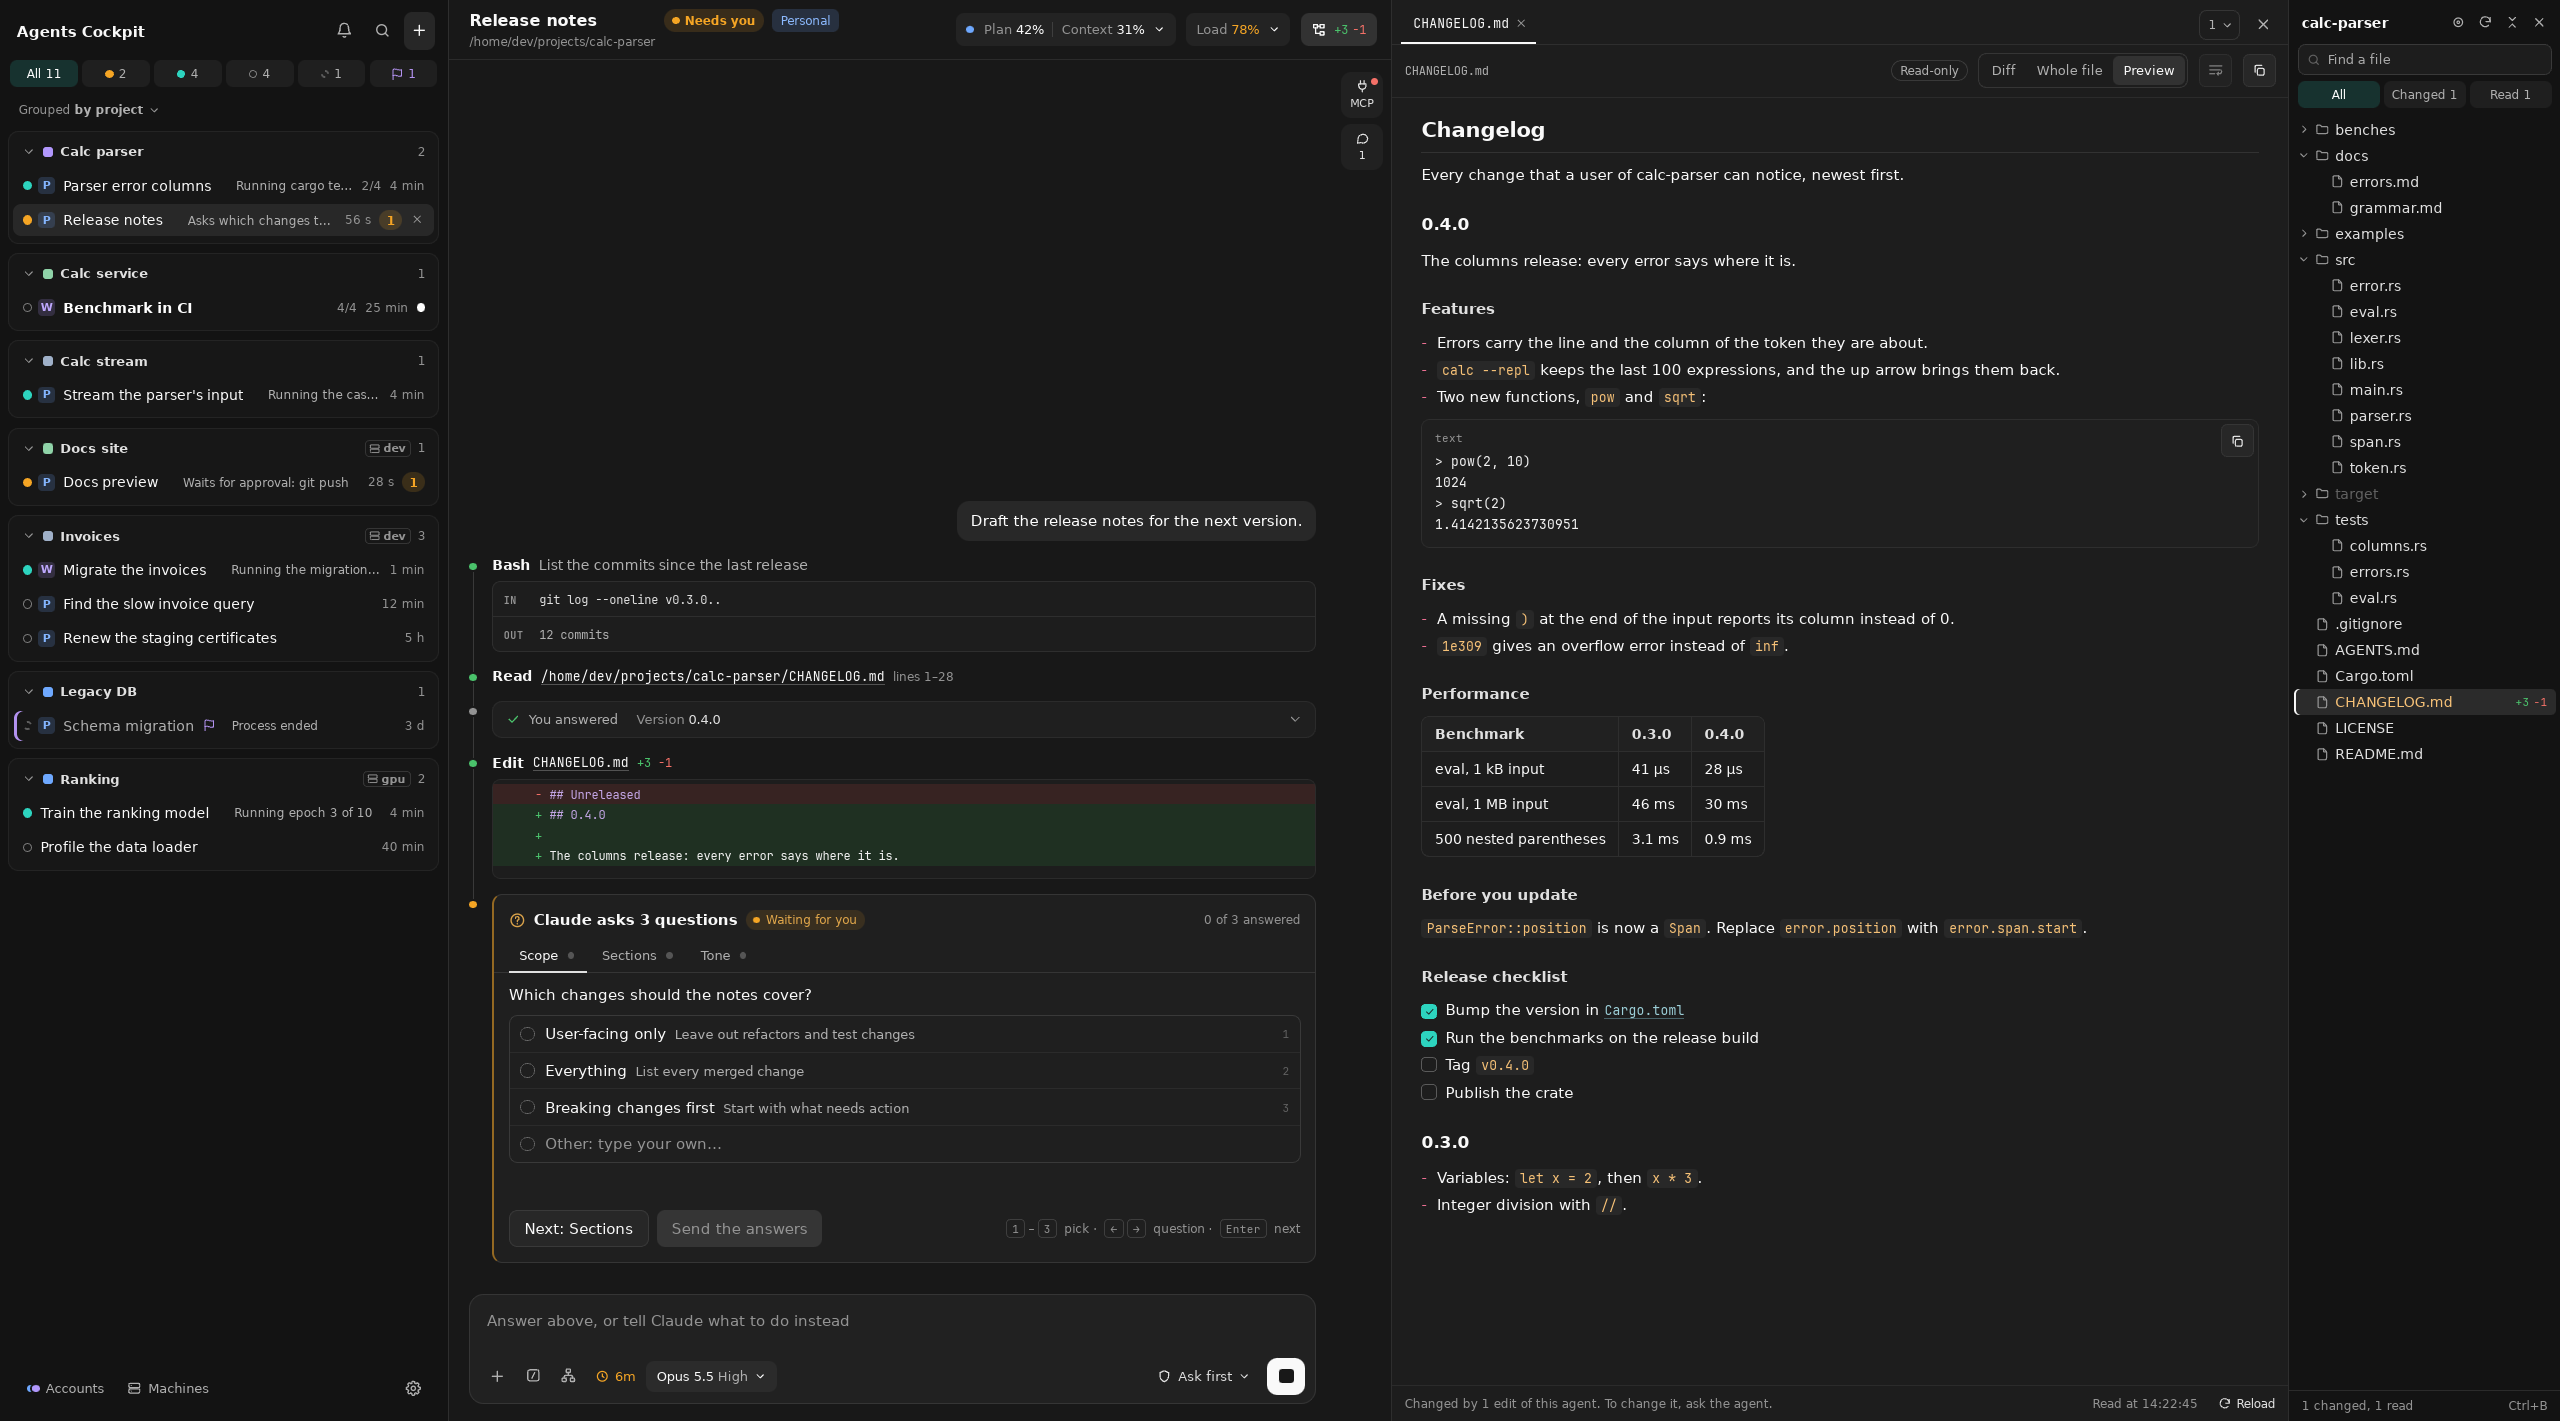
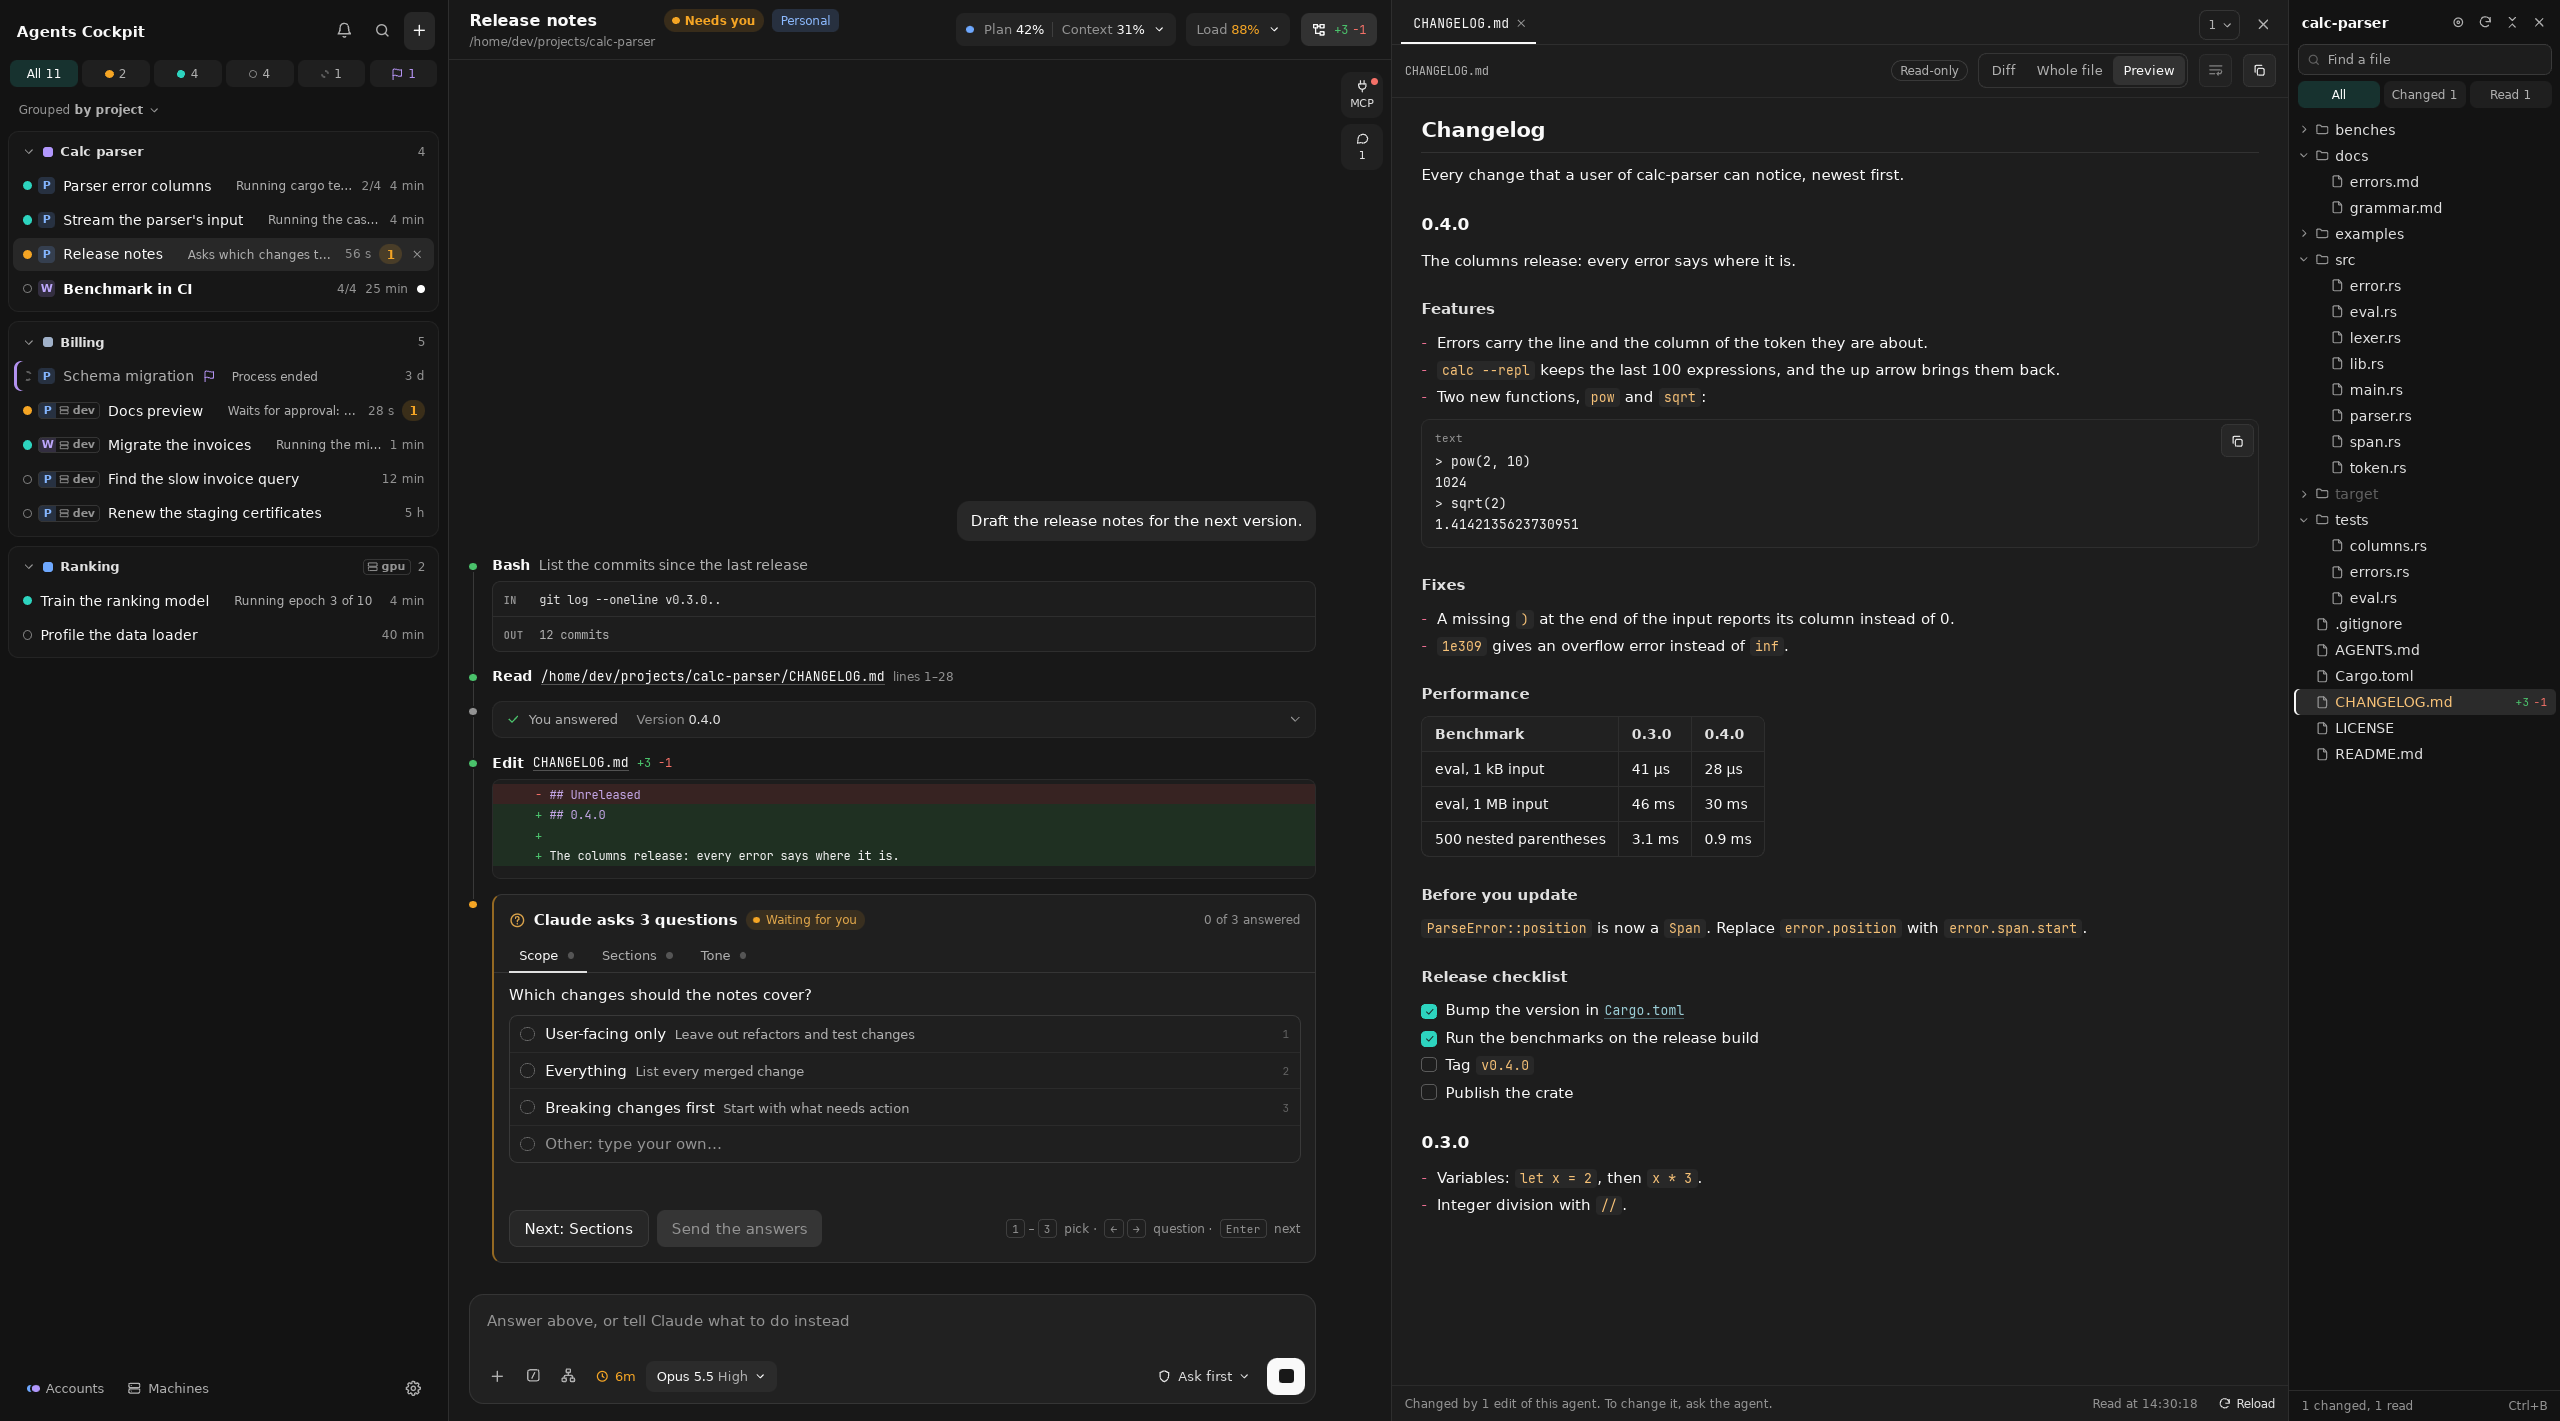
Show three projects with more agents each in the second README picture

diff --git a/crates/cockpit_desktop/src/demo.rs b/crates/cockpit_desktop/src/demo.rs
@@ -28,7 +28,7 @@ use strum::{EnumString, IntoStaticStr, VariantArray};
 use crate::daemon_label::DaemonLabel;
 use crate::machine::MachineId;
 use crate::path_style::PathStyle;
-use crate::prefs::{CommentPlacement, GroupBy};
+use crate::prefs::{CommentPlacement, GroupBy, ProjectRule};
 use crate::state::daemon_update::{
     self, OutputLine, OutputStream, ProtocolGap, UpdateFailure, UpdatePlan, VersionGap,
 };
@@ -63,15 +63,15 @@ pub enum Scene {
 /// Wide enough for the showcase's titles to show whole.
 const SHOWCASE_SIDEBAR_WIDTH: u16 = 430;
 
-/// The name the showcase gives the project of each repository, as a user would rename it.
-const SHOWCASE_PROJECT_NAMES: [(&str, &str); 7] = [
-    ("calc-parser", "Calc parser"),
-    ("calc-service", "Calc service"),
-    ("calc-stream", "Calc stream"),
-    ("docs-site", "Docs site"),
-    ("invoices", "Invoices"),
-    ("legacy-db", "Legacy DB"),
-    ("ranking", "Ranking"),
+/// The projects the showcase keeps, as a user would name them, each with the repositories it
+/// holds. The project takes the first repository's color.
+const SHOWCASE_PROJECTS: [(&str, &[&str]); 3] = [
+    (
+        "Calc parser",
+        &["calc-parser", "calc-service", "calc-stream"],
+    ),
+    ("Billing", &["invoices", "legacy-db", "docs-site"]),
+    ("Ranking", &["ranking"]),
 ];
 
 /// The showcase's third machine.
@@ -1087,14 +1087,29 @@ pub fn showcase(state: &mut AppState, scene: Scene) {
 fn show_project_files(state: &mut AppState) {
     let agent = AgentId::new(QUESTION_AGENT);
     state.prefs.sidebar.group_by = GroupBy::Project;
-    for key in projects::shown_projects(state) {
-        if let projects::ProjectKey::Repository(repository) = key {
-            let id = projects::keep(state, &repository);
-            let renamed = SHOWCASE_PROJECT_NAMES
+    let repositories: Vec<Repository> = projects::shown_projects(state)
+        .into_iter()
+        .filter_map(|key| match key {
+            projects::ProjectKey::Repository(repository) => Some(repository),
+            projects::ProjectKey::Kept(_) | projects::ProjectKey::None => None,
+        })
+        .collect();
+    for (name, names) in SHOWCASE_PROJECTS {
+        let mut project = None;
+        for repository in names.iter().filter_map(|wanted| {
+            repositories
                 .iter()
-                .find(|(repository_name, _)| *repository_name == repository.name());
-            if let Some((_, name)) = renamed {
-                projects::rename(state, id, name);
+                .find(|repository| repository.name() == *wanted)
+        }) {
+            match project {
+                None => {
+                    let id = projects::keep(state, repository);
+                    projects::rename(state, id, name);
+                    project = Some(id);
+                }
+                Some(id) => {
+                    projects::add_rule(state, id, ProjectRule::Repository(repository.clone()));
+                }
             }
         }
     }
@@ -4459,22 +4474,29 @@ pub struct ParseError {
         let agent = AgentId::new(QUESTION_AGENT);
         assert_eq!(state.ui.selected, Some(agent));
         assert_eq!(state.prefs.sidebar.group_by, GroupBy::Project);
-        let shown = projects::shown_projects(&state);
-        assert!(shown.len() > 1);
-        assert!(
-            shown
-                .iter()
-                .all(|key| matches!(key, projects::ProjectKey::Kept(_)))
+        let shown: Vec<(String, usize)> = projects::shown_projects(&state)
+            .iter()
+            .map(|key| {
+                assert!(
+                    matches!(key, projects::ProjectKey::Kept(_)),
+                    "{key} is kept"
+                );
+                let agents = state
+                    .agents
+                    .values()
+                    .filter(|entry| projects::project_of(&state, entry) == *key)
+                    .count();
+                (projects::look(&state, key).name, agents)
+            })
+            .collect();
+        assert_eq!(
+            shown,
+            [
+                ("Calc parser".to_owned(), 4),
+                ("Billing".to_owned(), 5),
+                ("Ranking".to_owned(), 2)
+            ]
         );
-        let names: Vec<String> = shown
-            .iter()
-            .map(|key| projects::look(&state, key).name)
-            .collect();
-        let showcase_names: Vec<String> = SHOWCASE_PROJECT_NAMES
-            .iter()
-            .map(|(_, name)| (*name).to_owned())
-            .collect();
-        assert_eq!(names, showcase_names);
         assert!(file_tree::pane_open(&state, agent));
         assert_eq!(
             state.ui.file_view(agent).map(|view| view.path.clone()),
